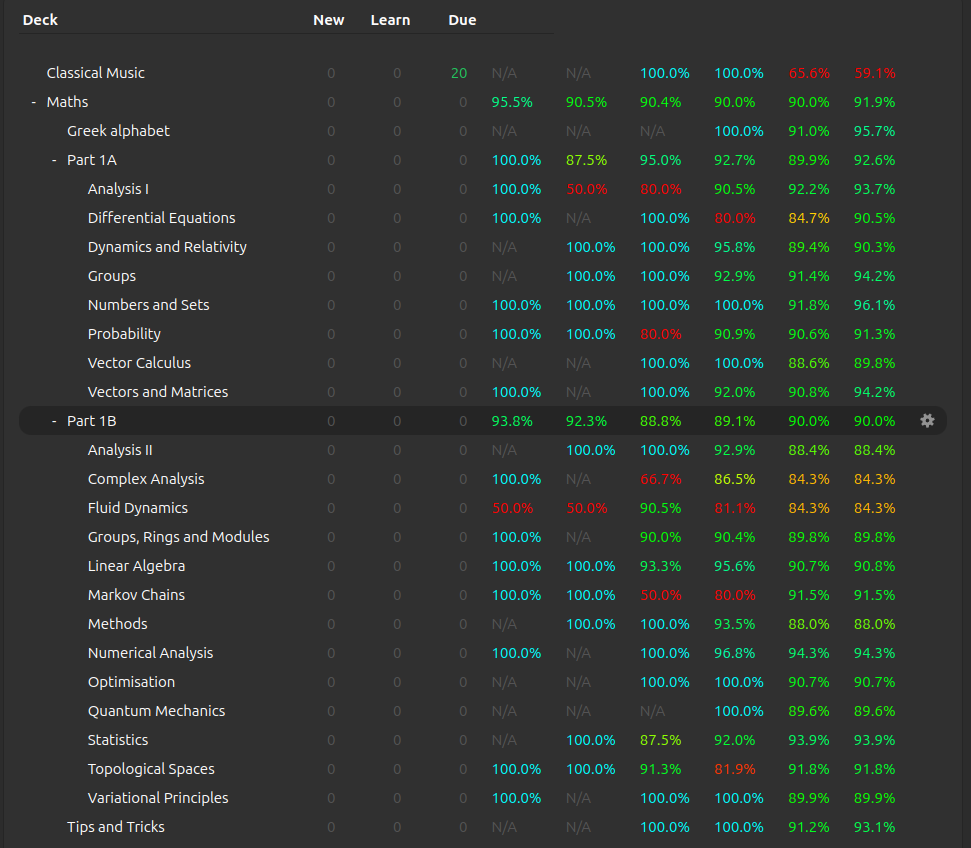
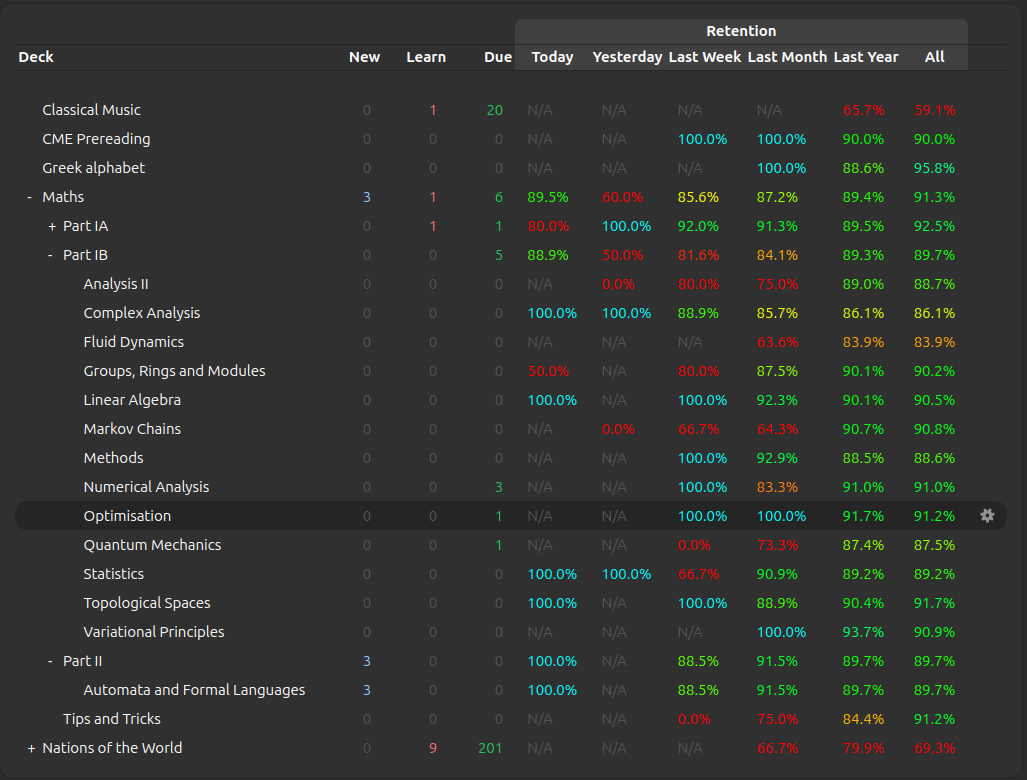
add column names

diff --git a/__init__.py b/__init__.py
@@ -108,6 +108,44 @@ def get_deck_stats(deck_id: DeckId) -> str:
 
 def deck_browser_will_show(deck_browser: DeckBrowser, content: DeckBrowserContent) -> None:
     resetTime()
+    if "deck-retention-group" not in content.tree:
+        retention_col_count = len(cutOffs)
+        retention_period_headers = "".join(
+            f"<th class=\"count\" style=\"text-align:center !important; background-color:rgba(255,255,255,0.08);\" title=\"Card Retention Rate - {cutoff}\">{cutoff}</th>"
+            for cutoff in cutOffs
+        )
+        retention_group_row = (
+            f"<tr class=\"deck-retention-group\">"
+            f"<th colspan=8></th>"
+            f"<th class=\"count\" colspan={retention_col_count} "
+            f"style=\"text-align:center !important; background-color:rgba(255,255,255,0.08); border-radius:8px 8px 0 0;\">Retention</th>"
+            f"<th></th>"
+            f"</tr>"
+        )
+
+        if "<tbody><tr><th colspan" in content.tree:
+            content.tree = content.tree.replace(
+                "<tbody><tr><th colspan",
+                f"<tbody>{retention_group_row}<tr><th colspan",
+                1,
+            )
+        else:
+            content.tree = content.tree.replace(
+                "<tr><th colspan",
+                f"{retention_group_row}<tr><th colspan",
+                1,
+            )
+
+        content.tree = content.tree.replace(
+            "<th class=optscol></th></tr><tr",
+            f"{retention_period_headers}<th class=optscol></th></tr><tr",
+            1,
+        )
+        content.tree = content.tree.replace(
+            "<th class=\"optscol\"></th></tr><tr",
+            f"{retention_period_headers}<th class=\"optscol\"></th></tr><tr",
+            1,
+        )
 
     # Do one query
     for cutoff in cutOffs:
@@ -165,7 +203,6 @@ def deck_browser_will_show(deck_browser: DeckBrowser, content: DeckBrowserConten
 def deck_browser_will_render_deck_node(deck_browser: DeckBrowser, node: Any, content: Any) -> Any:
     """Add custom statistics to each deck row."""
     deck_id = node.deck_id
-    stats = get_deck_stats(deck_id)
 
     # Add custom columns to the deck row
     custom_html = get_deck_stats(deck_id)

diff --git a/README.md b/README.md
@@ -3,6 +3,5 @@
 ![img.png](img.png)
 ### TODO:
 - Investigate when deck browser gets refreshed - does not always seem to refresh stats when pressing "d"
-- Add column labels
 - Add more/configurable stats
 - Button to view stats for that deck?
